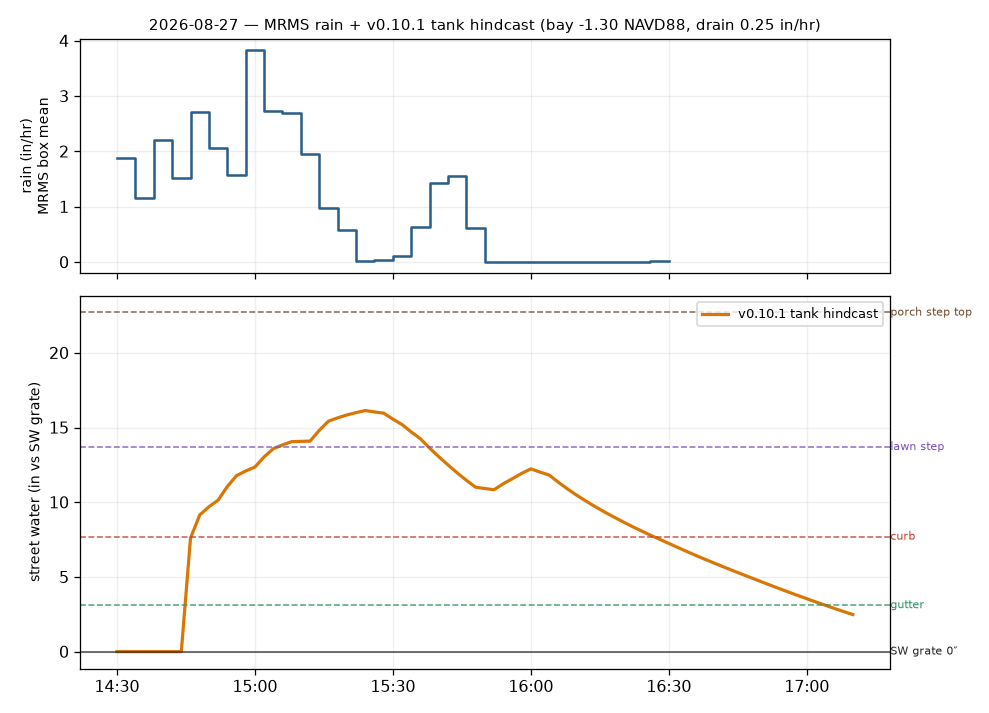
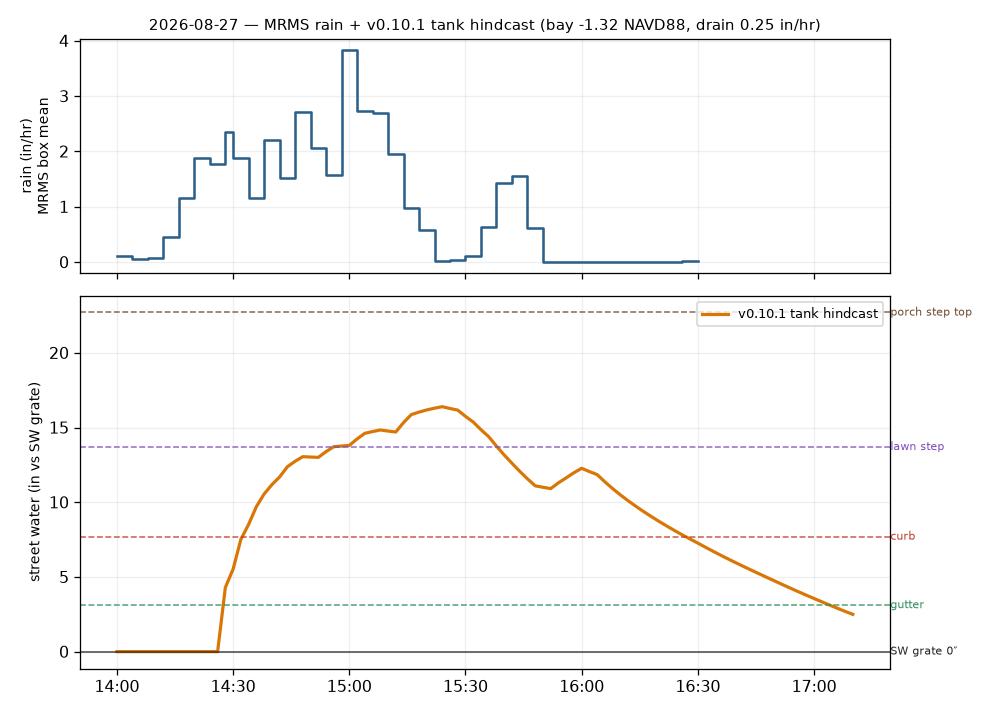
2026-08-27: blurred photos 3-4 committed (originals gitignored as *-original-unpublished per rule 9); timeline REVISED via cat-bowl EXIF + Kevin/Jackie accounts — arrival 2:19-2:21, heavy rain from 2:16, driveway-class water at departure ~2:43; full-window hindcast +16.4 @ 3:24

diff --git a/AGENTS.md b/AGENTS.md
@@ -84,6 +84,8 @@ live obligation) → `BACKLOG.md` OPEN LOOPS. On a flood event:
    be associated with Barnacle). Blur from the original, keep EXIF,
    verify the render visually, and hold the original uncommitted.
    When in doubt about whether someone is identifiable, blur or ask.
+   Keep the unblurred original on disk for provenance, renamed
+   `*-original-unpublished.*` (gitignored — never committed).
 10. **attic/ = archival, never read** as instructions. To use
    something, consciously move it out.
 11. **Audits** (`audits/README.md`): reviewer ≠ author; an open
